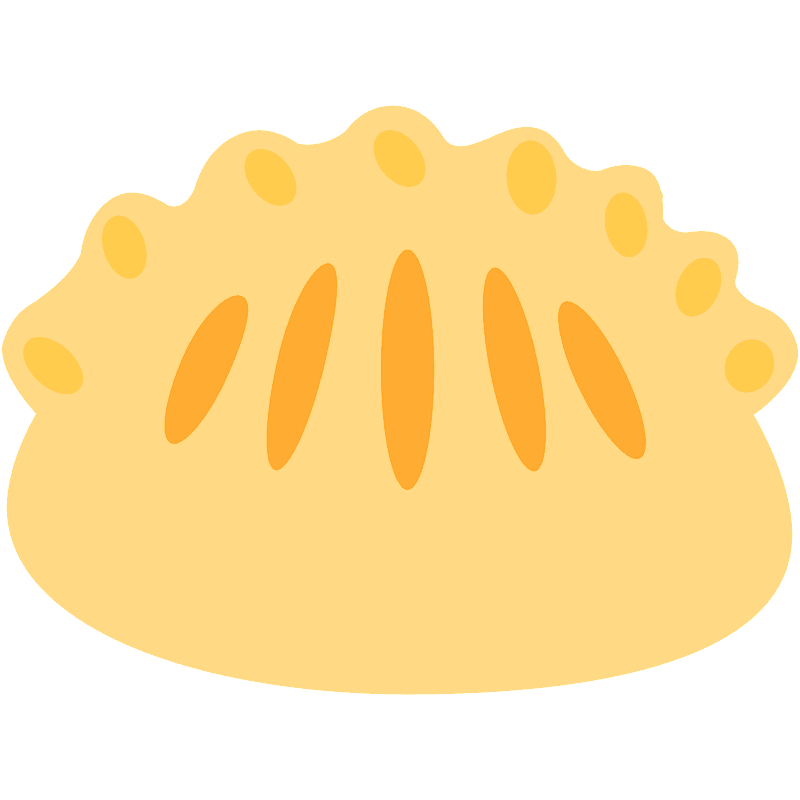
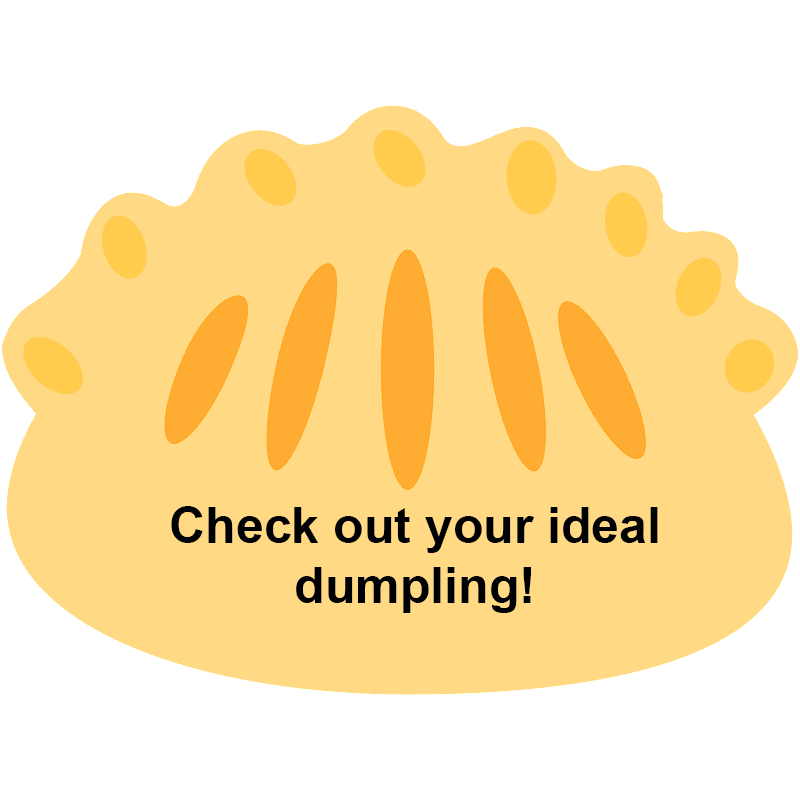
dumpling button

Changed region(s): [[0.2188, 0.625, 0.6875, 0.7812], [0.6875, 0.625, 0.8438, 0.6875]]

diff --git a/style.css b/style.css
@@ -76,12 +76,16 @@
   }
 
   .dumpling-button{
-    text-align: center;
-    border: none;
-    font-size: 80px;
-    background-image: url('https://creazilla-store.fra1.digitaloceanspaces.com/emojis/53158/dumpling-emoji-clipart-md.png');
-
+    transition-duration: 0.4s;
+    border-radius: 45%;
+    color: red;
   }
+
+  .dumpling-button:hover {
+    color: red;
+    box-shadow: 5px 12px 16px 5px rgba(255,0,0,0.24), 0 17px 50px 0 rgba(0,0,0,0.19);
+  }
+  
 
   body {
     font-family: 'Martel', serif;

diff --git a/index.html b/index.html
@@ -142,10 +142,9 @@
 </div>
 
 
-<div class = "dumpling-button" onclick="finish()">
-  <script src = dumpling-button.js></script>
-  <button>
-   Check out your ideal dumpling!
+<div onclick="finish()">
+  <button class = "dumpling-button">
+    <img src="images/button.png" alt="buttonpng" border="0" class="dumpling"/>
   </button>
 
 </div>
